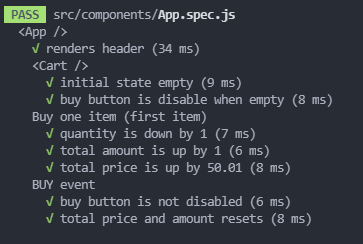
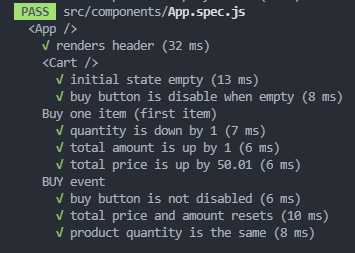
# Test App component -On BUY event "product quantity is the same" test

Changed region(s): [[0.0, 0.0, 0.9606, 0.9467]]

diff --git a/shopping-cart/src/components/App.spec.js b/shopping-cart/src/components/App.spec.js
@@ -85,6 +85,12 @@ describe('<App />', () => {
       expect(totalPrice).toHaveTextContent('0');
       expect(amount).toHaveTextContent('0');
     });
+
+    test('product quantity is the same', () => {
+      const component = setUp();
+      const firstQuantity = component.container.querySelector('.quantity-span');
+      expect(firstQuantity).toHaveTextContent('5');
+    });
   });
 });
 
